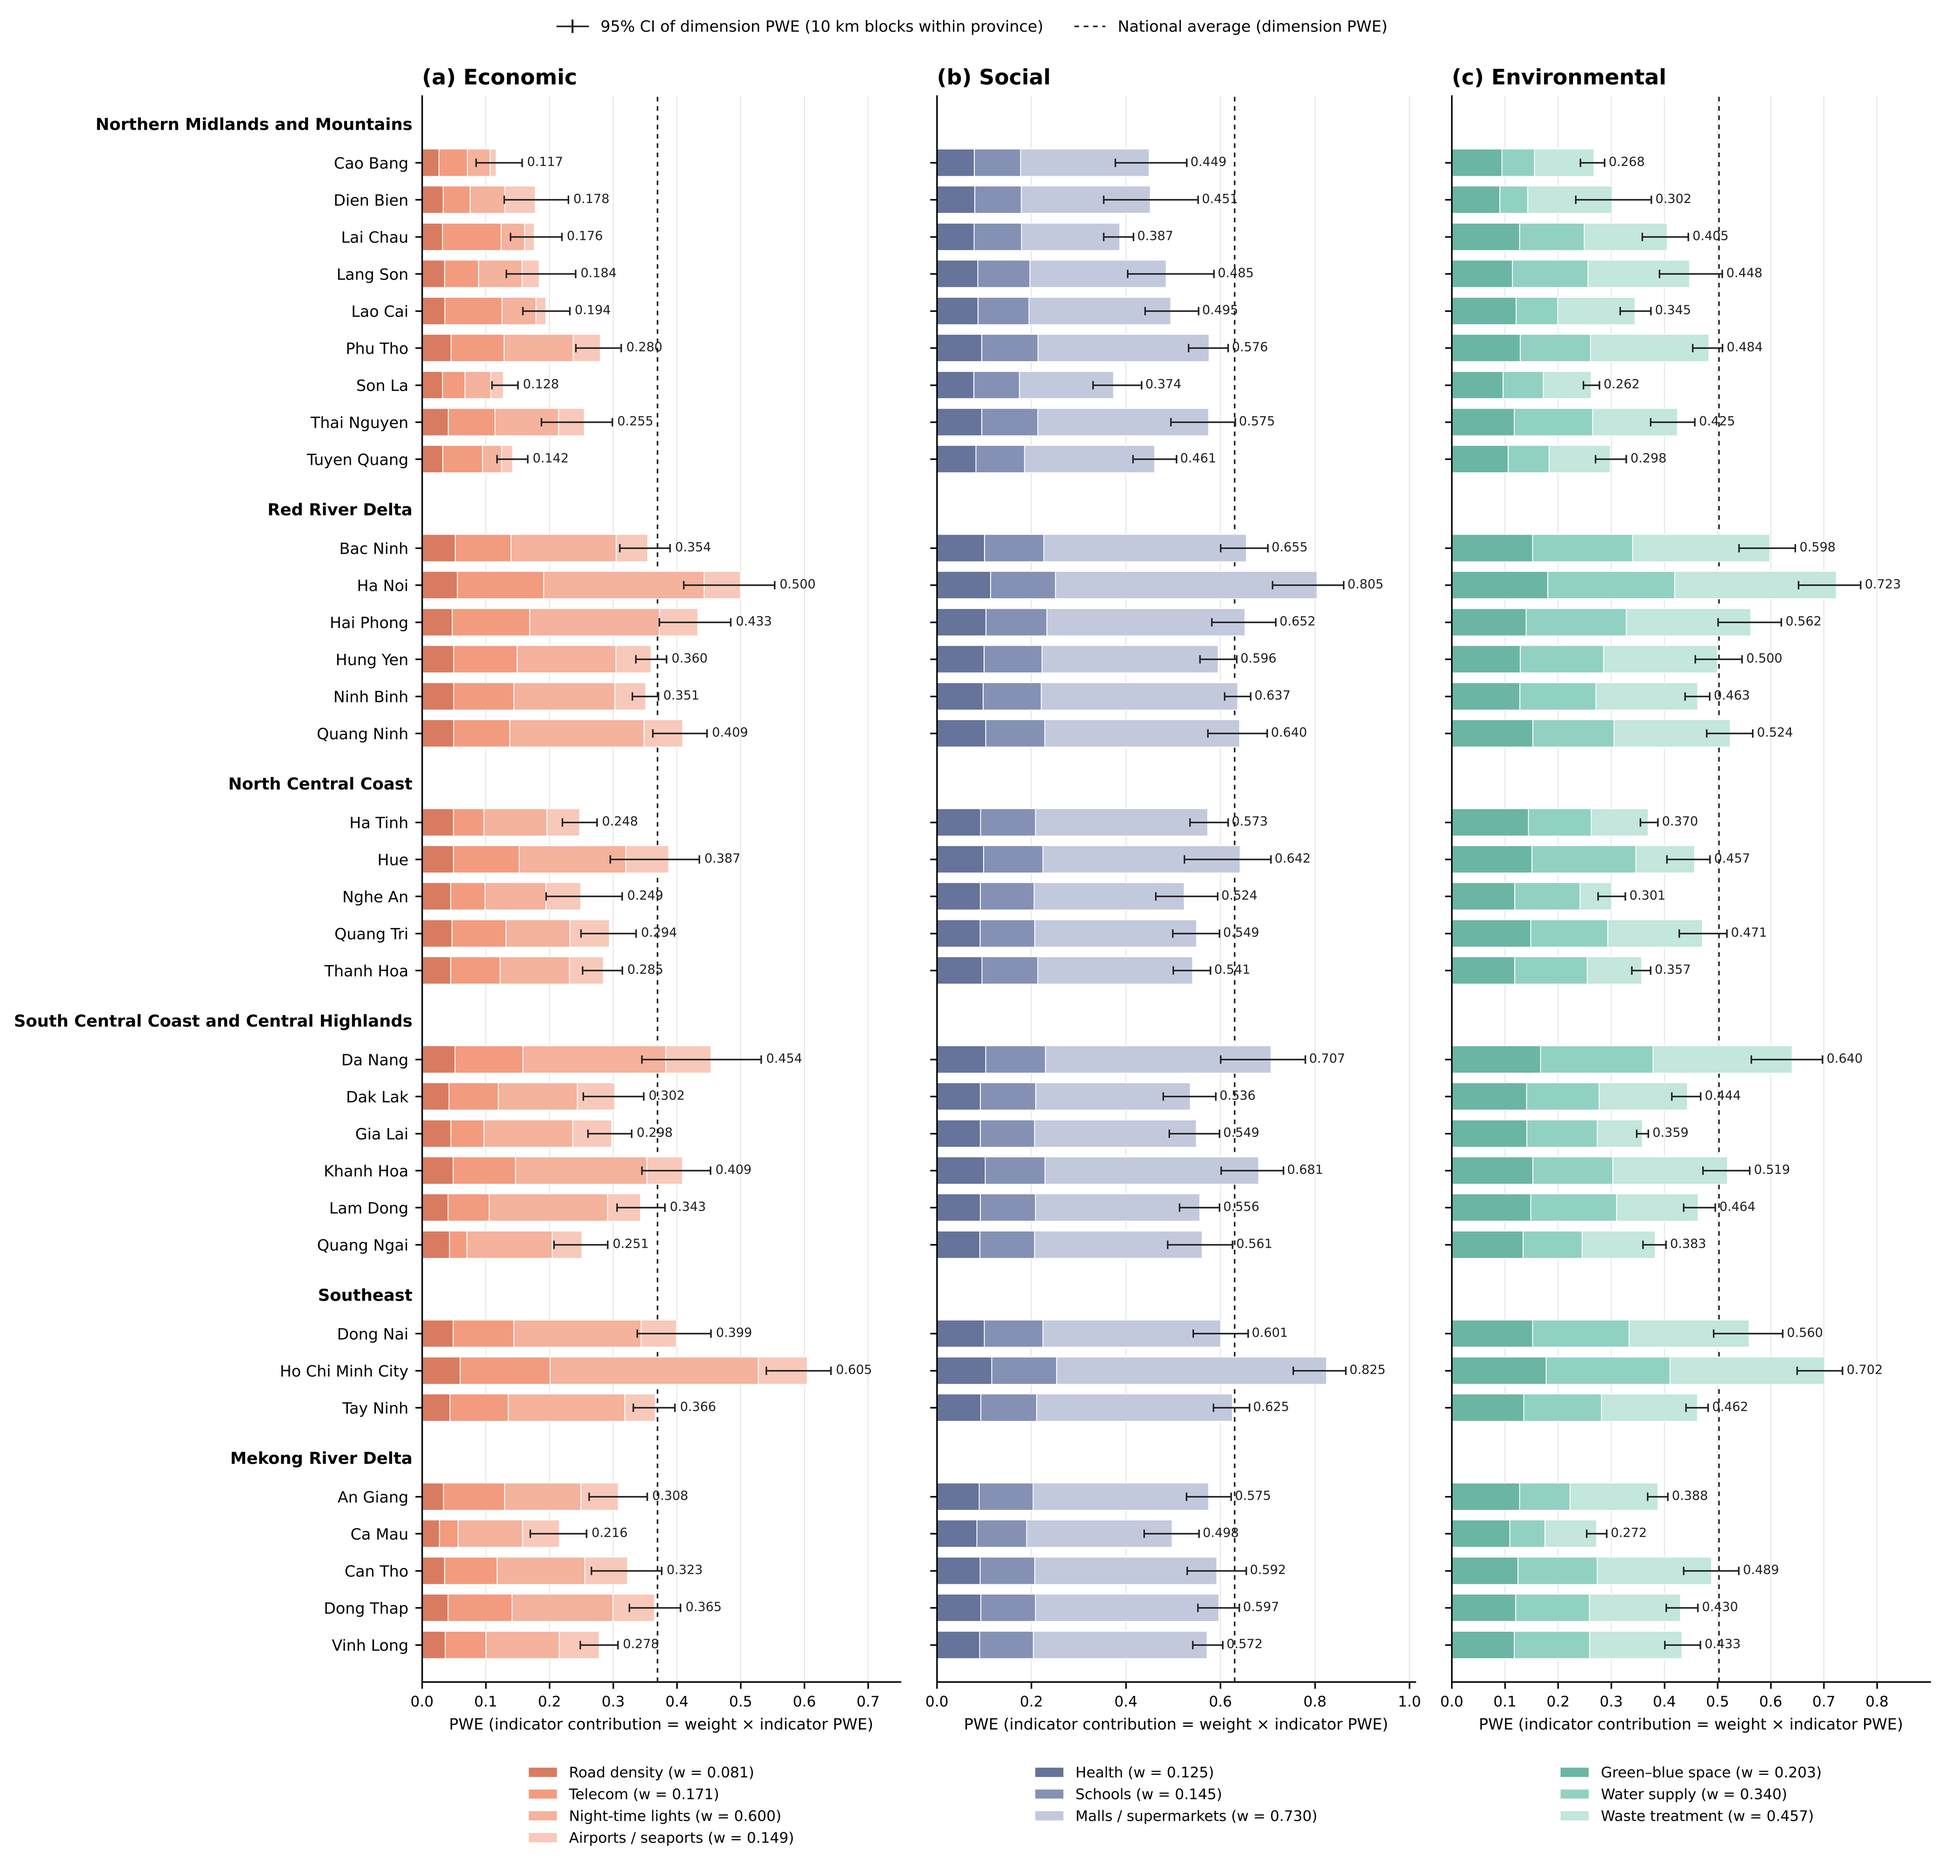
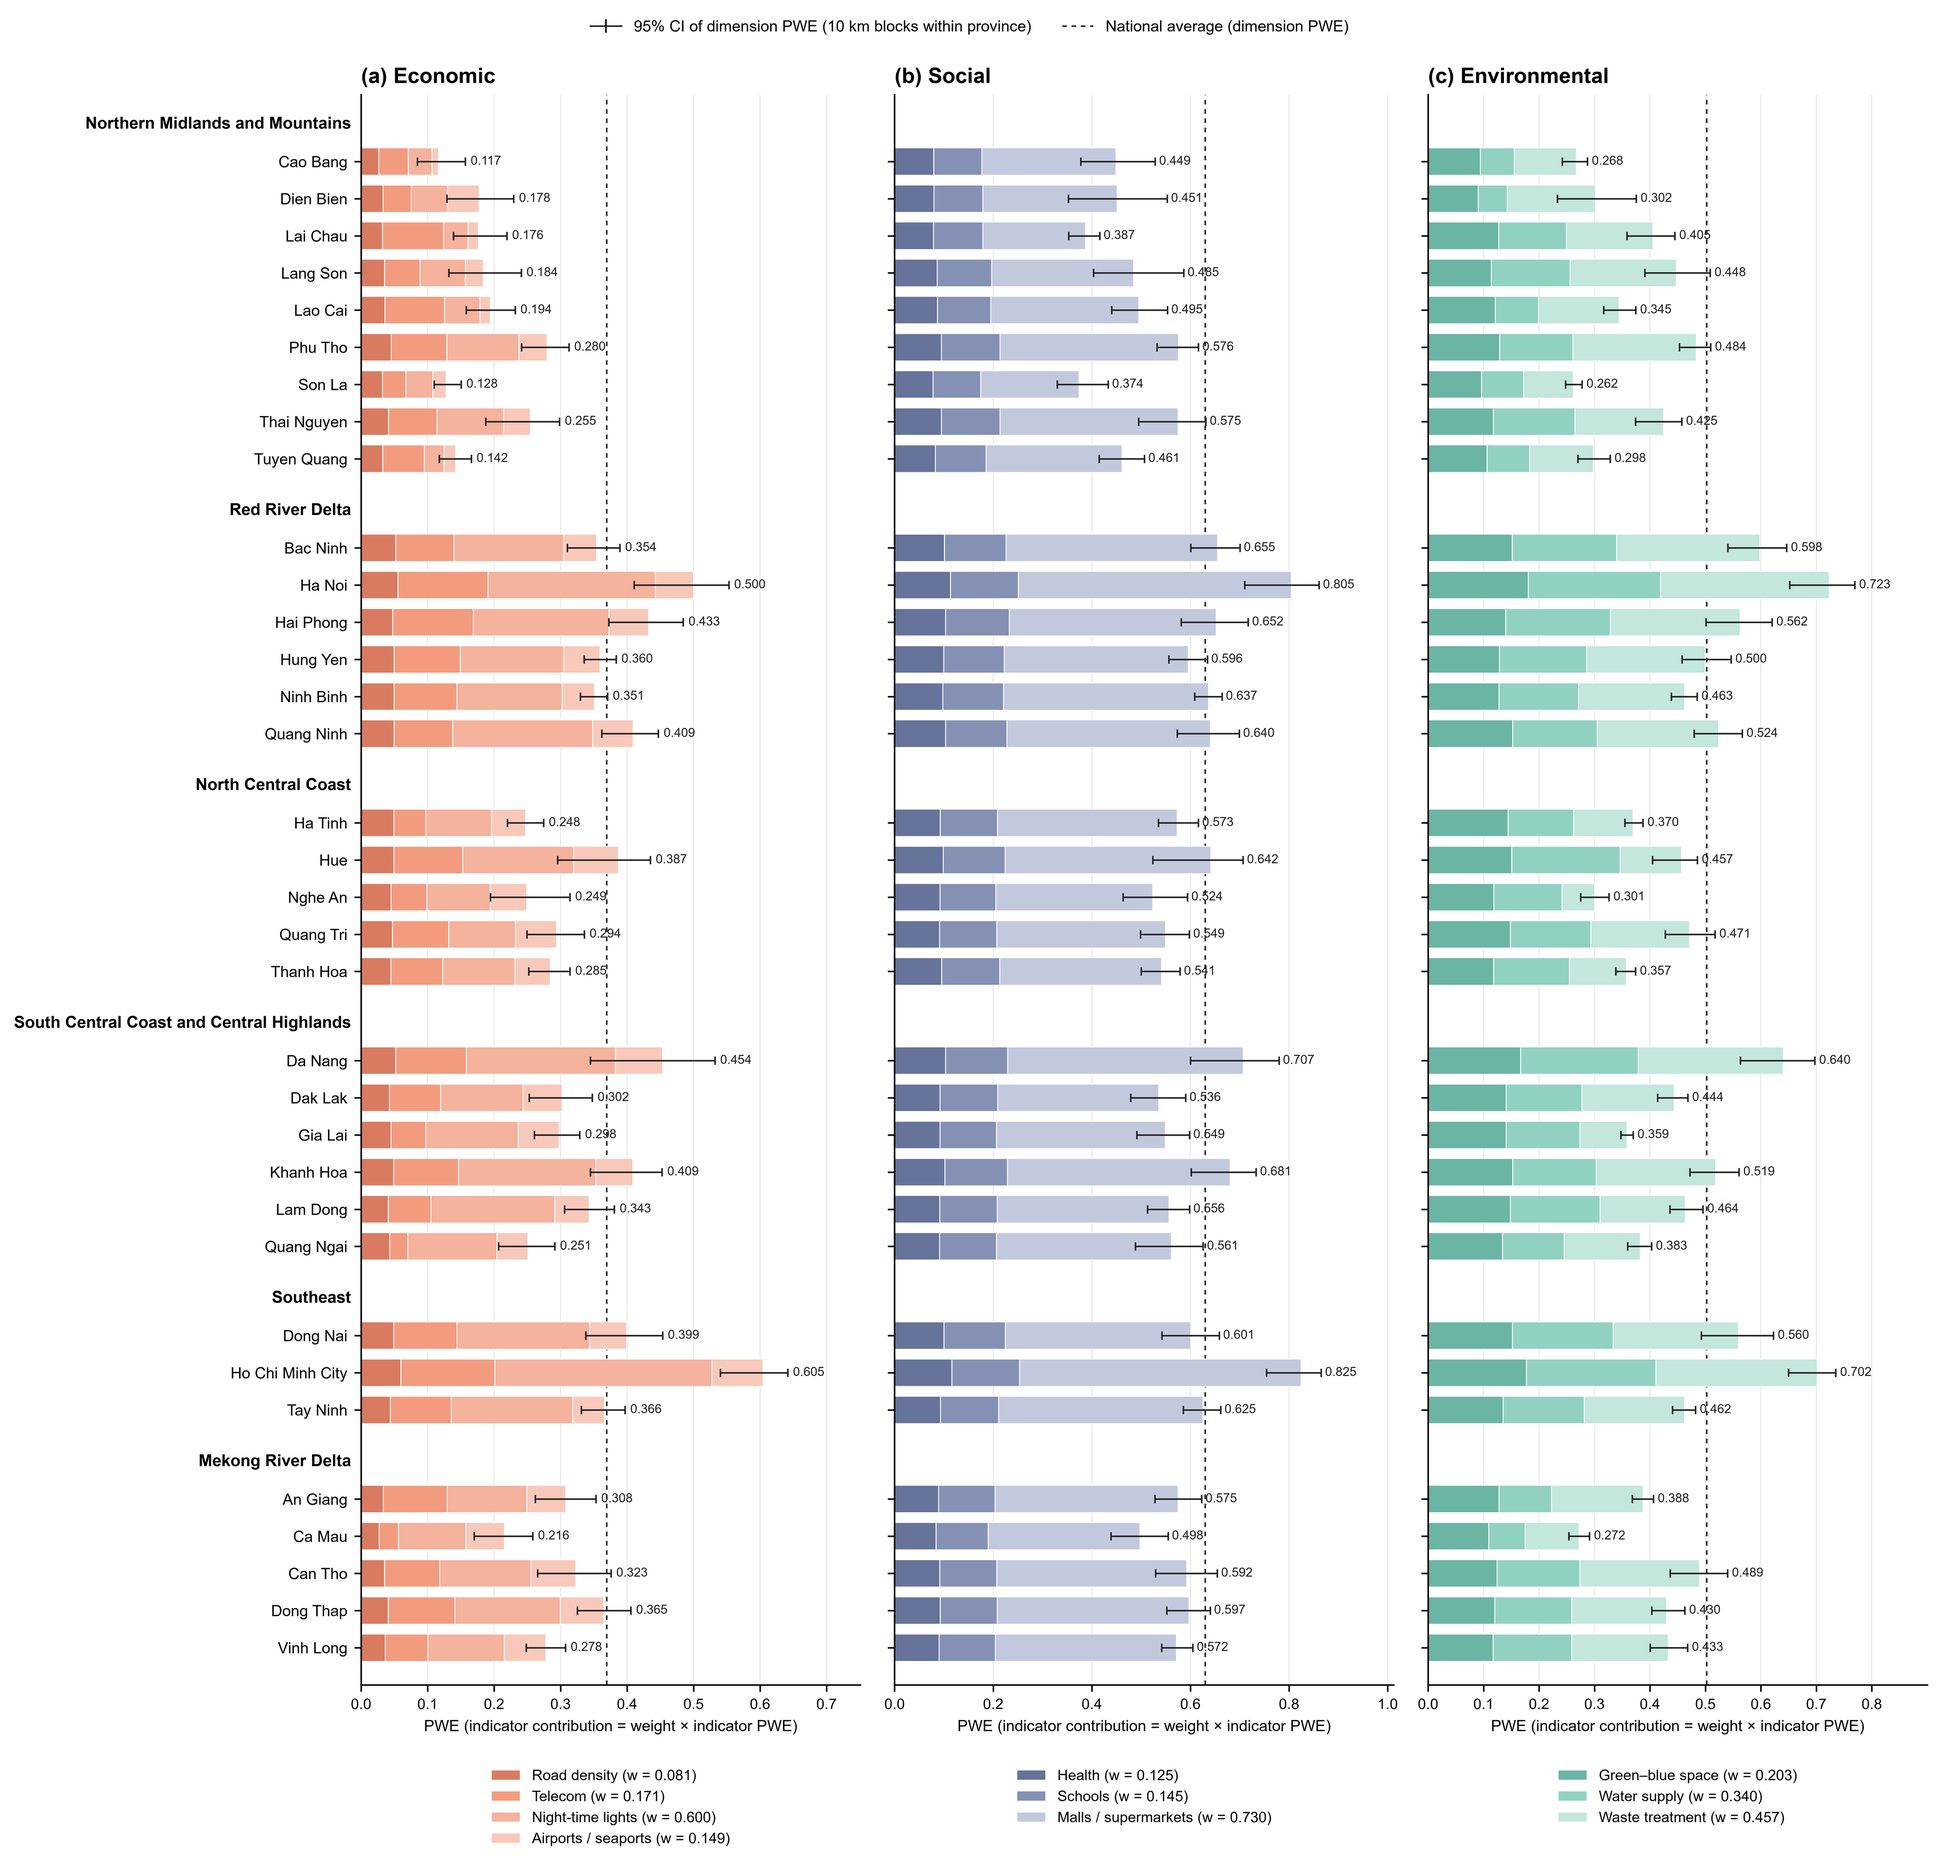
Update all figures to the final English versions (300 dpi)

diff --git a/README.md b/README.md
@@ -116,7 +116,7 @@ See also `CITATION.cff` (GitHub shows a “Cite this repository” button). A Ze
 
 ## Version history
 
-- **1.1.0** (2026-10-27): added accessibility by infrastructure type (`data/accessibility_by_infrastructure*`, Supplementary Data 1) and Figures S2–S3; renumbered figures and table references to match the current manuscript (Lorenz curves → Figure 4, provincial Gini → Figure 5, Spearman correlations moved to `extra_`).
+- **1.1.0** (2026-10-27): added accessibility by infrastructure type (`data/accessibility_by_infrastructure*`, Supplementary Data 1) and Figures S2–S3; renumbered figures and table references to match the current manuscript (Lorenz curves → Figure 4, provincial Gini → Figure 5, Spearman correlations moved to `extra_`); all figures regenerated from the final English versions (updated colour palette, 300 dpi).
 - **1.0.0** (2026-10-21): initial release.
 
 ## Authors and contact
